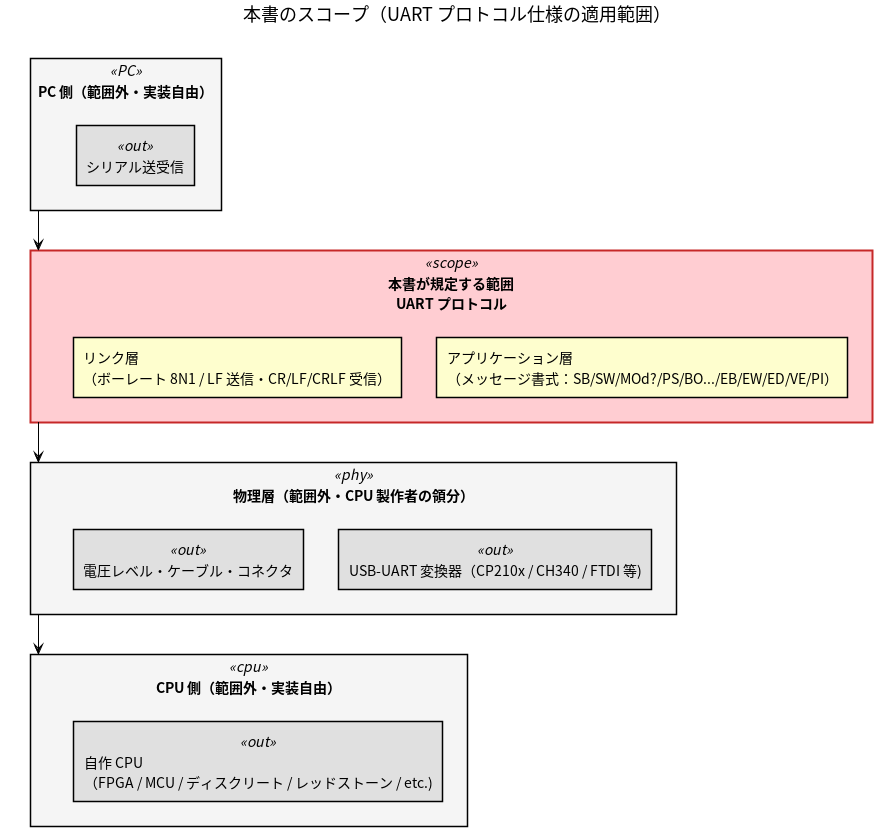
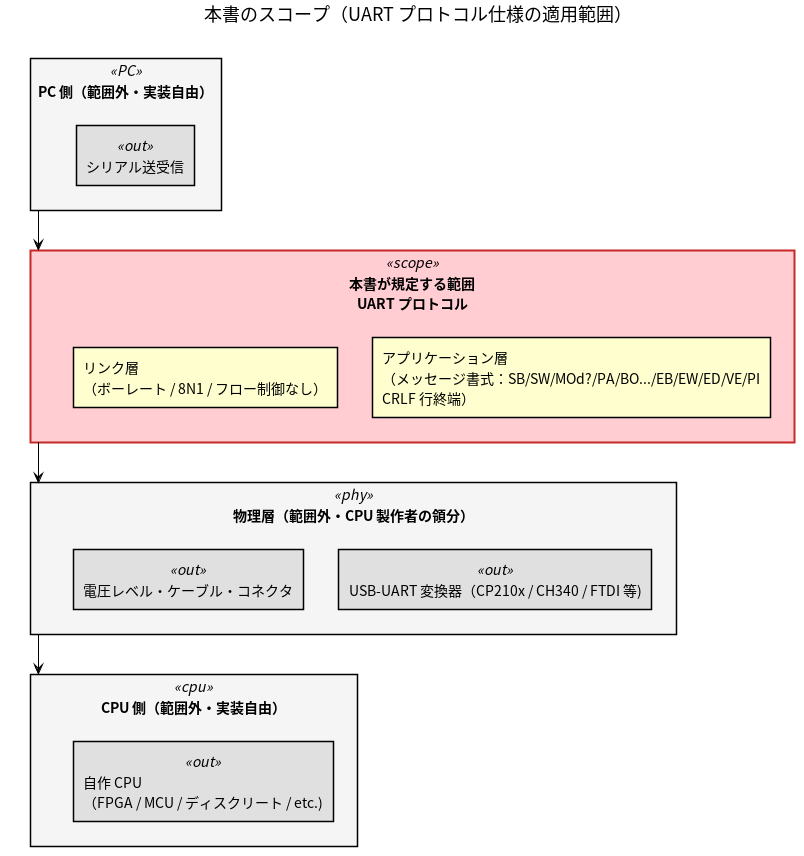
FIX 図など

Changed region(s): [[0.0311, 0.0622, 0.995, 0.9952], [0.2488, 0.0, 0.7774, 0.0311]]

diff --git a/README.md b/README.md
@@ -4,39 +4,44 @@
 
 提案者: [tommie.jp](https://tommie.jp)
 
-自作 CPU（FPGA / MCU / ディスクリート CPU 等）を PC に UART 経由で接続し、
-PC 上のソフトウェアと接続するための通信プロトコル仕様。CPU 製作者が本書だけを
-読めば実装可能なよう、PC 側の実装詳細には踏み込まない。
+- リバーシアルゴリズムを実装したCPU(FPGAやディスクリートなど想定)をPCにUART経由で接続し、
+PC上のソフトウェアとシリアル接続するための通信プロトコル仕様。
+- CPU製作者が本書だけを読めばプロトコルを実装可能なように規定する。
 
 > **注記**: 「オセロ」は株式会社メガハウスの登録商標です。本書では「オセロ」の
 > 代わりに一般名詞である「リバーシ」を使用しています。
 
 ## 目次
 
-- [1. この文書のステータス](#1-この文書のステータス)
-- [2. スコープ](#2-スコープ)
-- [3. テスト環境構成例](#3-テスト環境構成例)
-- [4. リンク層](#4-リンク層)
-- [5. 文字コード・改行](#5-文字コード改行)
-  - [5.1 仕様違反受信時の扱い](#51-仕様違反受信時の扱い)
-- [6. バッファ・タイムアウト](#6-バッファタイムアウト)
-- [7. メッセージ書式](#7-メッセージ書式)
-  - [7.1 PC → CPU（CPU への入力）](#71-pc--cpucpu-への入力)
-  - [7.2 CPU → PC（CPU からの応答）](#72-cpu--pccpu-からの応答)
-  - [7.3 ER エラーコード表](#73-er-エラーコード表)
-- [8. 座標・盤面の向き](#8-座標盤面の向き)
-- [9. プロトコル設計の指針](#9-プロトコル設計の指針)
-- [10. 正常フロー](#10-正常フロー)
-- [11. CPU 側 状態遷移図（例）](#11-cpu-側-状態遷移図例)
-- [12. 状態遷移表](#12-状態遷移表)
-- [13. 異常系・復帰フロー](#13-異常系復帰フロー)
-  - [13.1 盤面乖離からの復帰（RS）](#131-盤面乖離からの復帰rs)
-- [14. 参考](#14-参考)
-  - [14.1 シリアル端末ソフト設定のヒント](#141-シリアル端末ソフト設定のヒント)
-  - [14.2 設計判断の背景: なぜ「大文字コマンド」「CR+LF のみ」にしたか](#142-設計判断の背景-なぜ大文字コマンドcrlf-のみにしたか)
-- [15. 検討事項（未確定）](#15-検討事項未確定)
-- [16. 設計レビュー](#16-設計レビュー)
-- [17. 本書に追記を検討するなら](#17-本書に追記を検討するなら)
+- [リバーシ UART プロトコル仕様（ドラフト v0.1）](#リバーシ-uart-プロトコル仕様ドラフト-v01)
+  - [目次](#目次)
+  - [1. この文書のステータス](#1-この文書のステータス)
+  - [2. スコープ](#2-スコープ)
+  - [3. テスト環境構成例](#3-テスト環境構成例)
+  - [4. リンク層](#4-リンク層)
+  - [5. 文字コード・改行](#5-文字コード改行)
+    - [5.1 仕様違反受信時の扱い](#51-仕様違反受信時の扱い)
+  - [6. バッファ・タイムアウト](#6-バッファタイムアウト)
+  - [7. メッセージ書式](#7-メッセージ書式)
+    - [7.1 PC → CPU（CPU への入力）](#71-pc--cpucpu-への入力)
+    - [7.2 CPU → PC（CPU からの応答）](#72-cpu--pccpu-からの応答)
+    - [7.3 ER エラーコード表](#73-er-エラーコード表)
+  - [8. 座標・盤面の向き](#8-座標盤面の向き)
+  - [9. プロトコル設計の指針](#9-プロトコル設計の指針)
+  - [10. 正常フロー](#10-正常フロー)
+  - [11. CPU 側 状態遷移図（例）](#11-cpu-側-状態遷移図例)
+  - [12. 状態遷移表](#12-状態遷移表)
+  - [13. 異常系・復帰フロー](#13-異常系復帰フロー)
+    - [13.1 盤面乖離からの復帰（`RS`）](#131-盤面乖離からの復帰rs)
+  - [14. 参考](#14-参考)
+    - [14.1 シリアル端末ソフト設定のヒント](#141-シリアル端末ソフト設定のヒント)
+    - [14.2 設計判断の背景: なぜ「大文字コマンド」「CR+LF のみ」にしたか](#142-設計判断の背景-なぜ大文字コマンドcrlf-のみにしたか)
+      - [大文字コマンド (§5)](#大文字コマンド-5)
+      - [CR+LF のみ (§5)](#crlf-のみ-5)
+      - [トレードオフ](#トレードオフ)
+  - [15. 検討事項（未確定）](#15-検討事項未確定)
+  - [16. 設計レビュー](#16-設計レビュー)
+  - [17. 本書に追記を検討するなら](#17-本書に追記を検討するなら)
 
 ## 1. この文書のステータス
 
